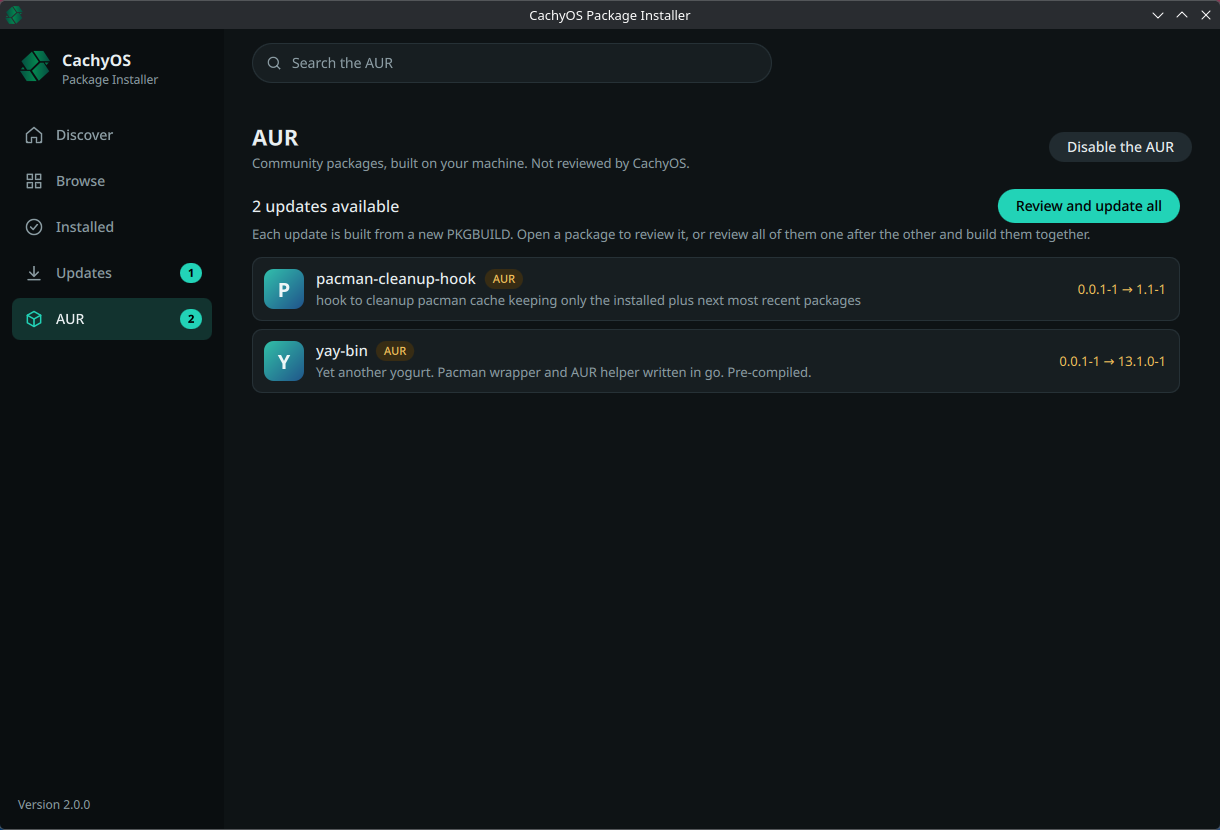
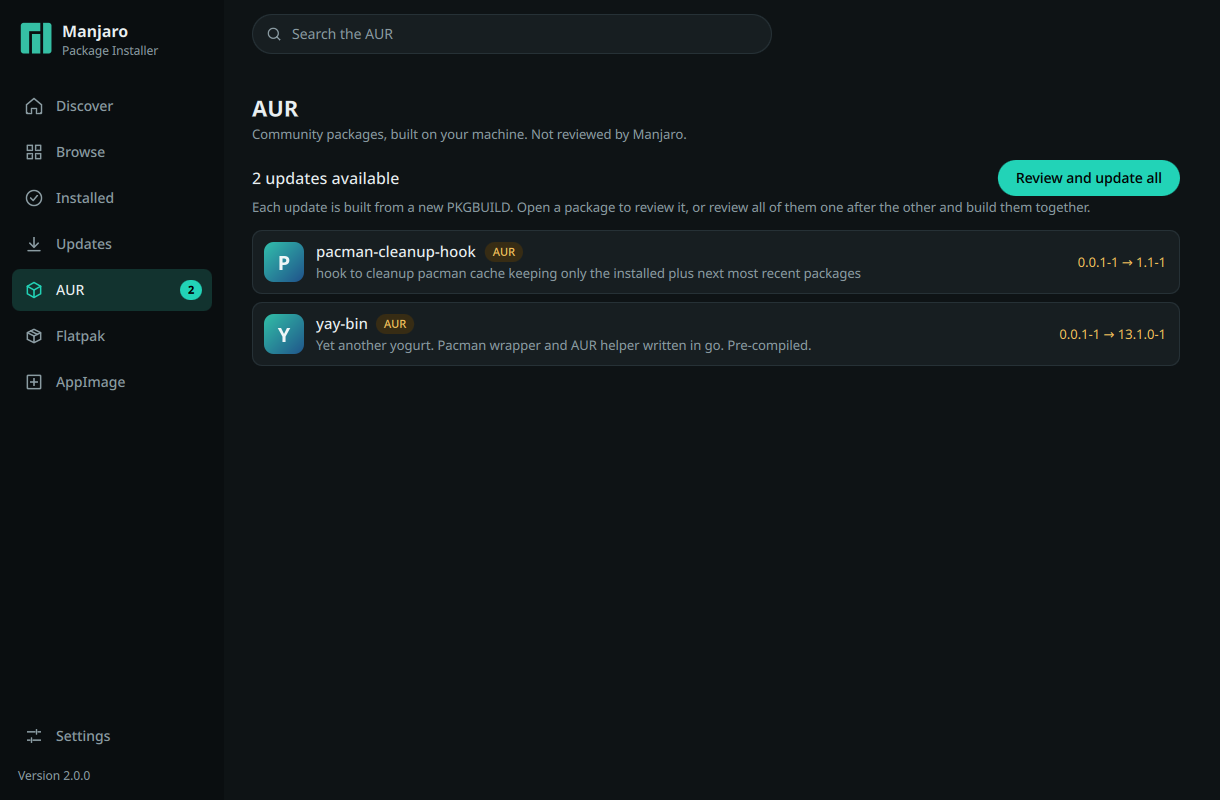
README screenshots of the Manjaro build, and the tool that takes them
screenshots/{discover,details,aur-review,aur-updates}.png now show the
Manjaro build (Manjaro logo, Manjaro badges, our app list) instead of
CachyOS, under upstream's names so README.md stays upstream's.
tools/screenshots.sh builds this checkout in a Manjaro container and takes
them under Xvfb: MuseScore for the details page (its screenshots are on
GitHub), 1password for the AUR review, two old stand-in packages for the AUR
updates. tools/update-upstream.sh keeps ours when upstream's pictures
conflict and lists upstream's picture changes, so they can be taken again.

Claude-Session: https://claude.ai/code/session_017TS62F7JHev42EHU13D7VD

diff --git a/MANJARO.md b/MANJARO.md
@@ -11,8 +11,12 @@ releases.
 
 ![The Discover page on Manjaro KDE](manjaro/screenshots/discover.png)
 
-Screenshots are in `manjaro/screenshots/`; the ones in `screenshots/` are
-upstream's, of CachyOS.
+The four pictures in README.md's table (`screenshots/`) are ours, of the
+Manjaro build, under upstream's file names, so README.md itself stays
+upstream's. `tools/screenshots.sh` takes them again (Manjaro container, Xvfb,
+needs docker); `tools/update-upstream.sh` keeps ours on a merge and says when
+upstream changed its pictures. Screenshots from a real desktop go in
+`manjaro/screenshots/`.
 
 ## What differs from upstream
 
@@ -25,6 +29,7 @@ upstream's, of CachyOS.
 | `src/backend.{hpp,cpp}`, `qml/AurDetailsPage.qml`, `qml/Main.qml` | "Install paru" where the repositories have no paru: paru's AUR page, buildable without paru |
 | `CMakeLists.txt` | The `PI_*` options; the program, scanner and helper names; the polkit file with its own ids; the desktop file; no CachyOS icon or AppStream entry |
 | `src/instance.{hpp,cpp}` (new), two hooks in `src/main.cpp` | One window per user; `--updates` opens it (or brings it forward) on the Updates page, for the notifier |
+| `screenshots/` | The README's pictures, of the Manjaro build (`tools/screenshots.sh`) |
 | `cmake/Manjaro.cmake`, `manjaro/` | The Manjaro settings, the app list (only packages in Manjaro's repositories), its check, the desktop file |
 | `MANJARO.md`, `packaging/PKGBUILD`, `tools/test-manjaro.sh` | This file, the package, the container test |
 
